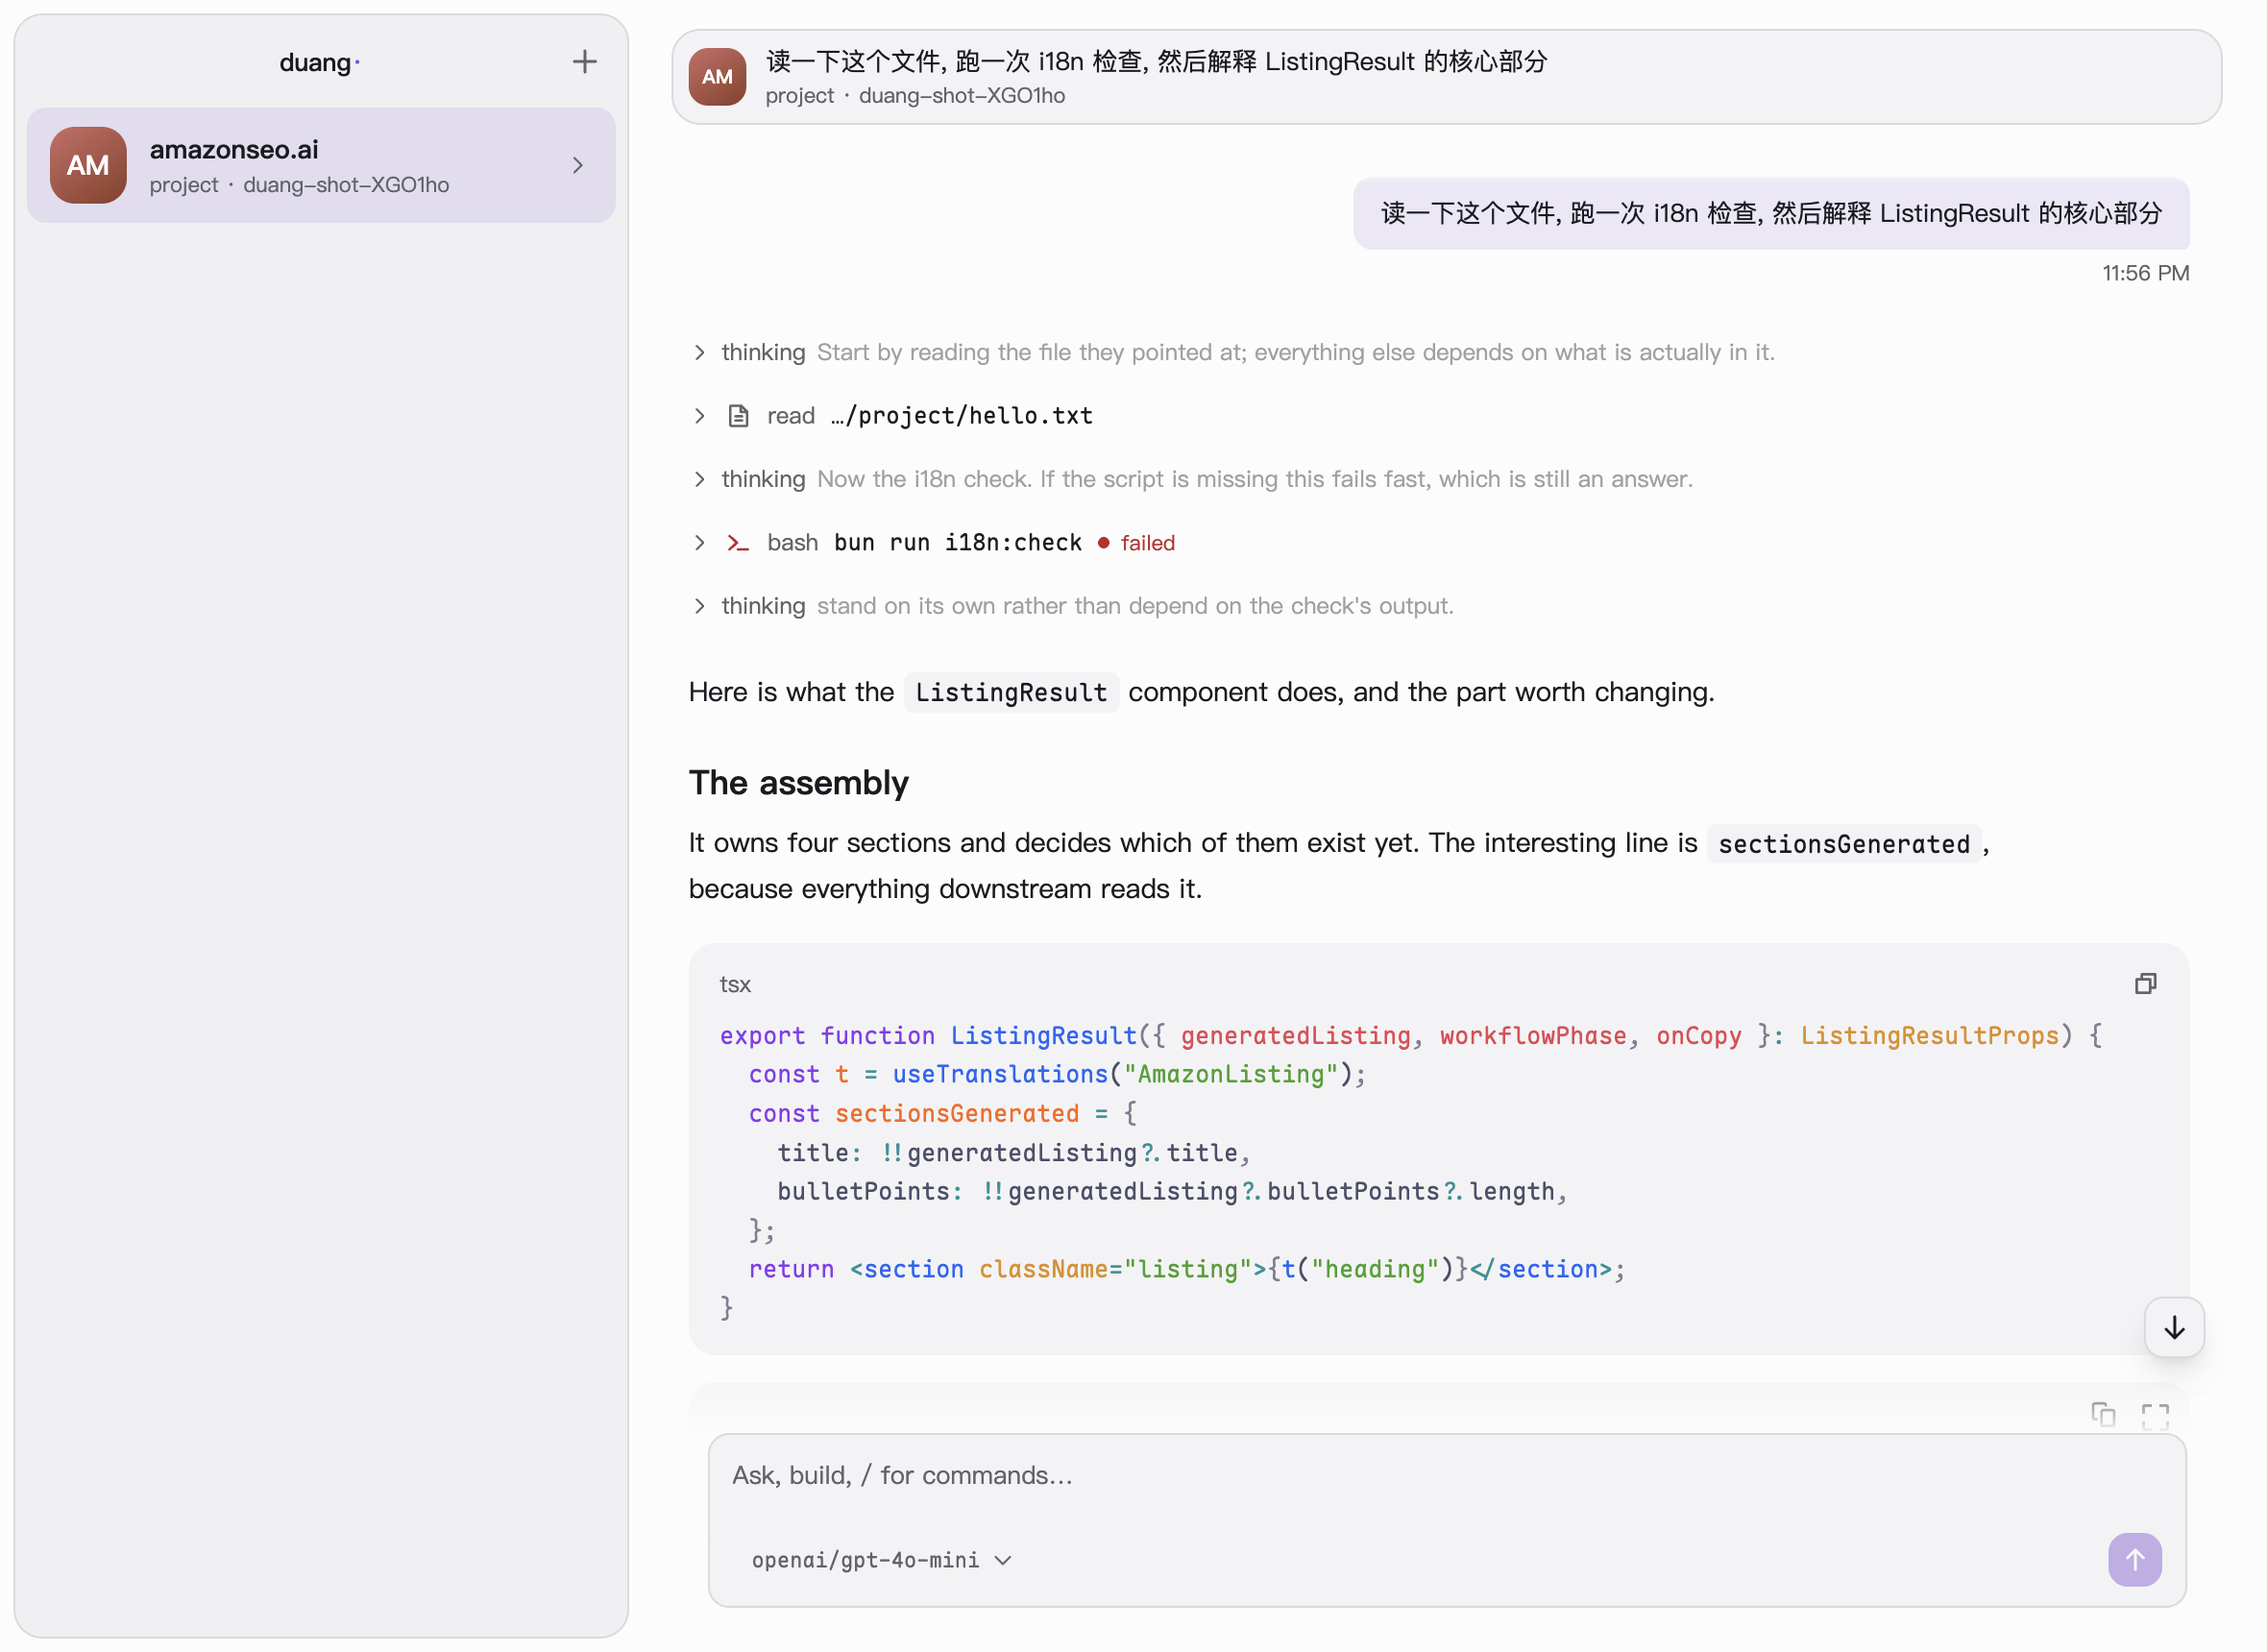
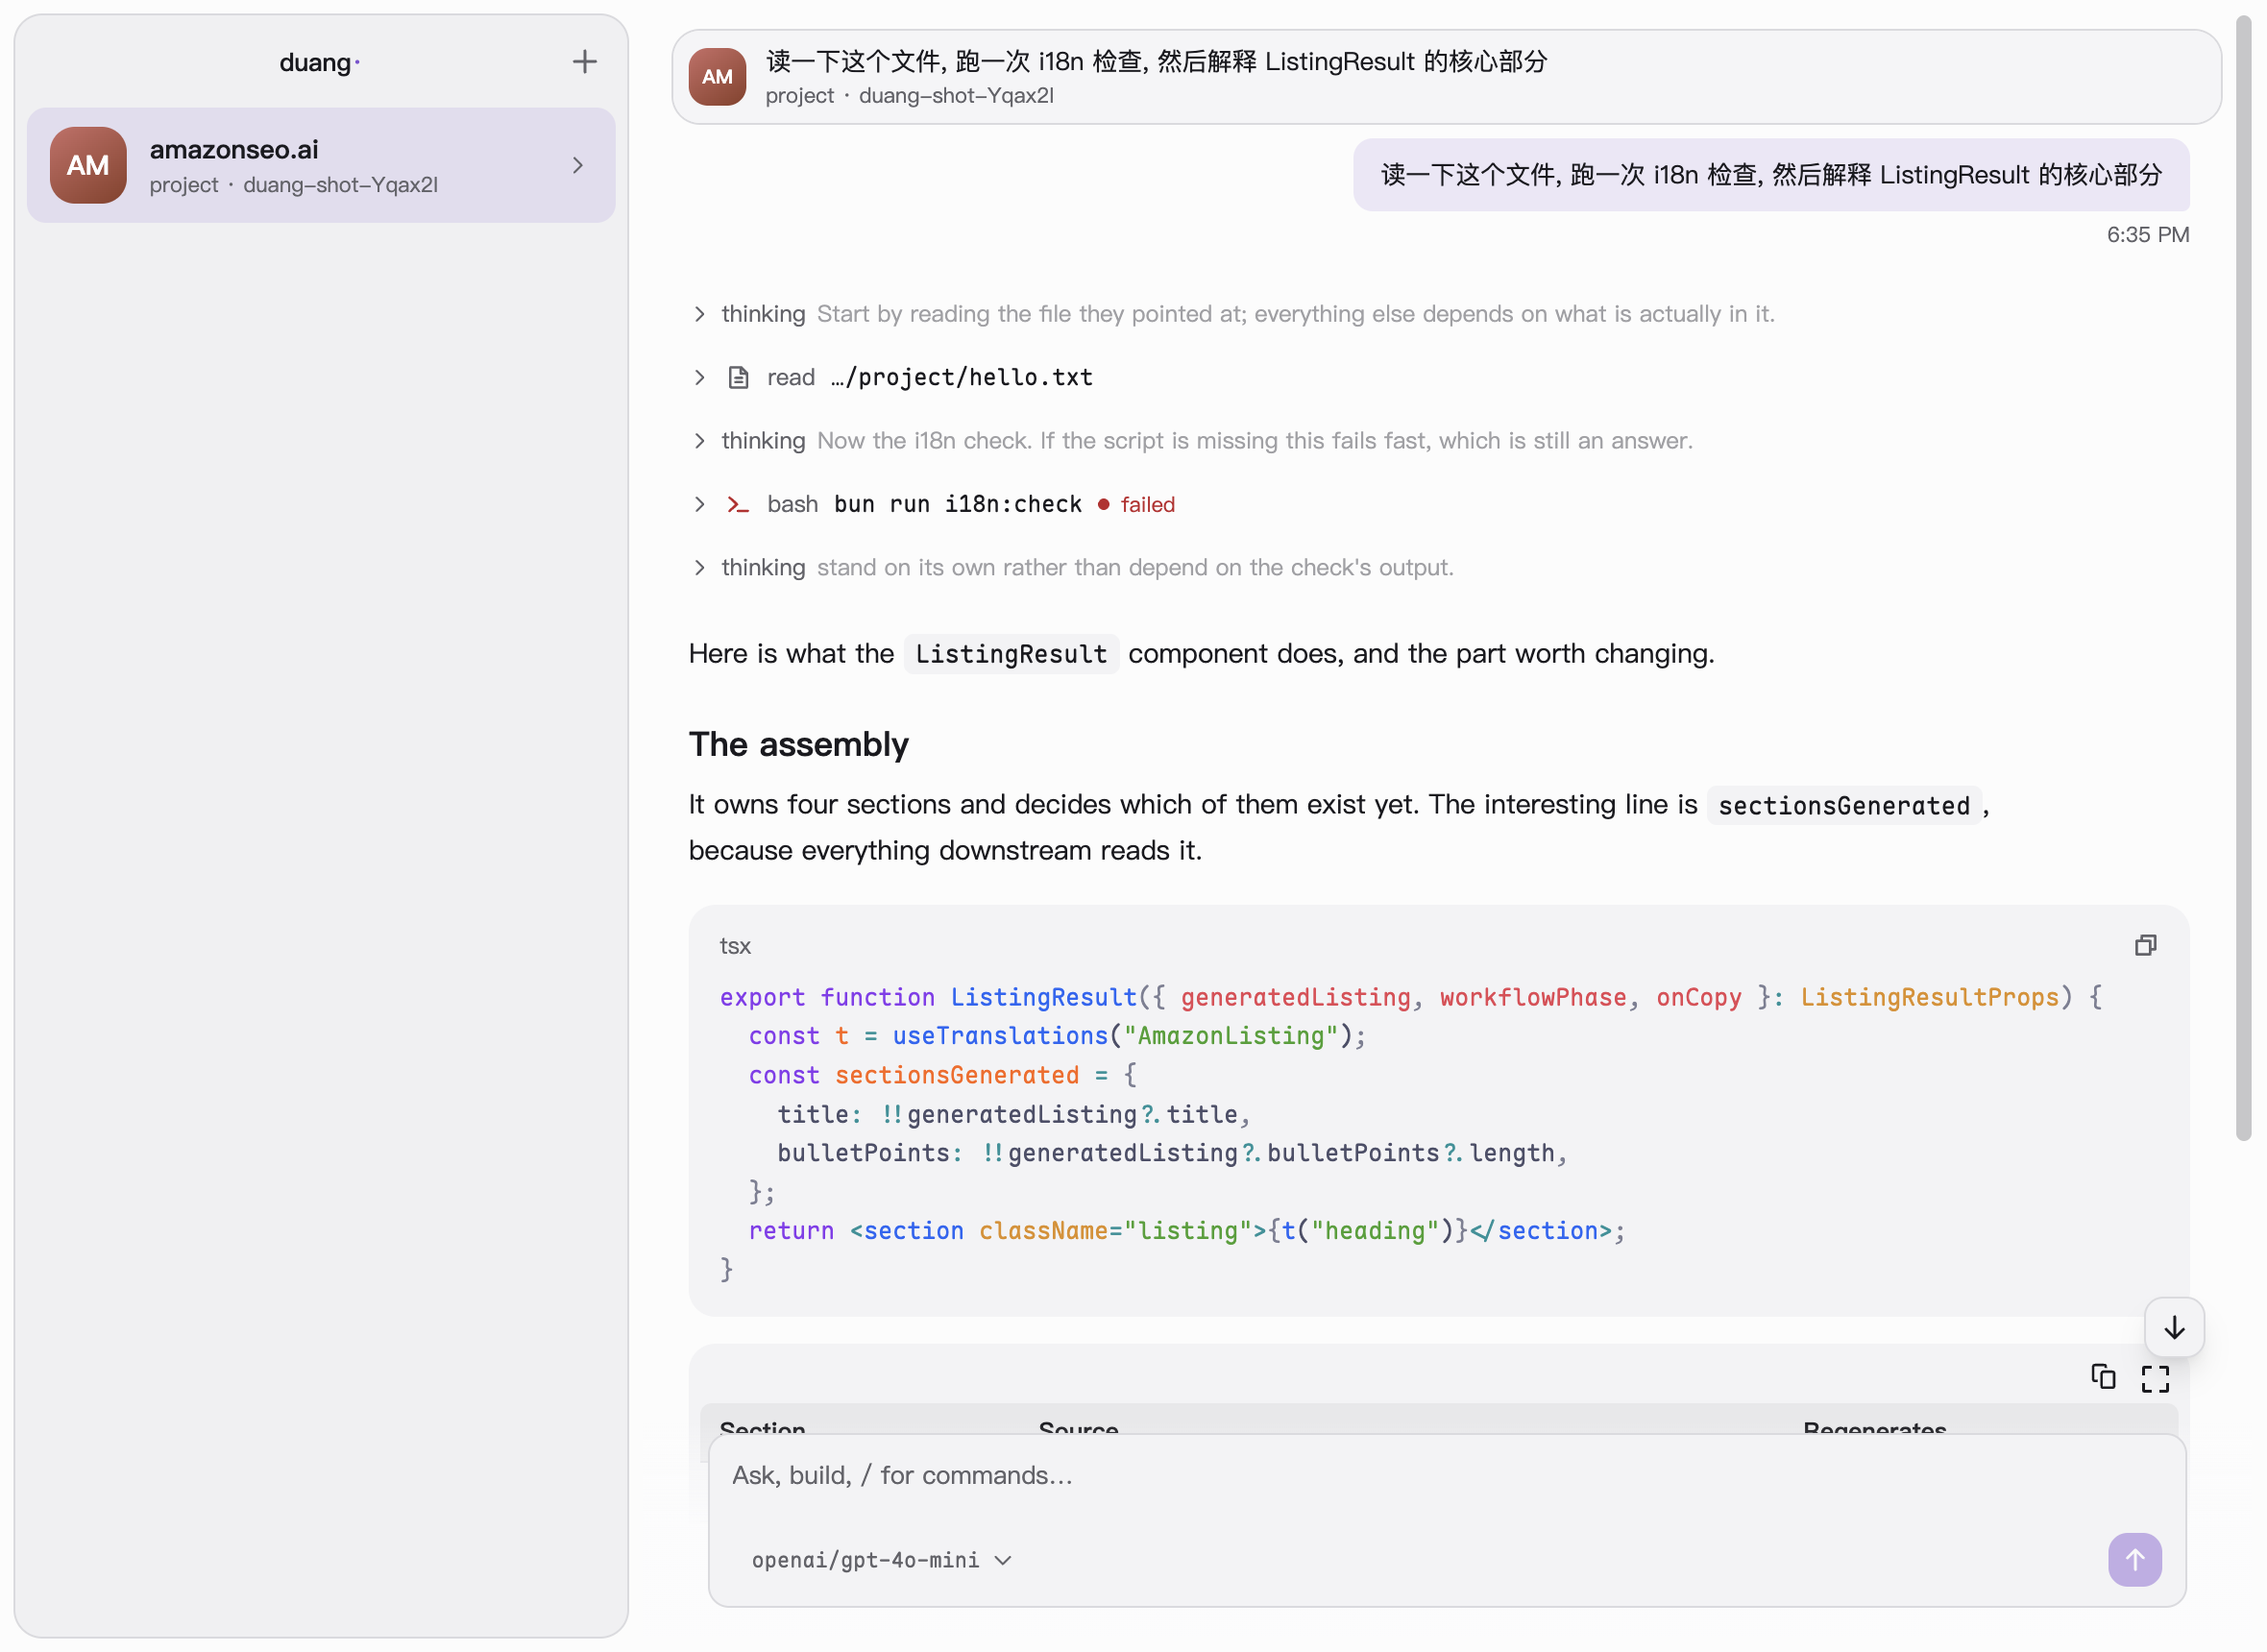
fix(ui): the header and composer float over the transcript again, as in Telegram

diff --git a/src/renderer/panels.tsx b/src/renderer/panels.tsx
@@ -506,10 +506,6 @@ export function Sidebar({
 }
 
 /**
- * What you are looking at: the conversation, workspace and running context. The pill keeps the
- * floating visual language but occupies its own row, so scrolled text never ghosts through it.
- */
-/**
  * What is left of the plan paying for this conversation: each window's share used, when it resets,
  * and for the week whether it is burning faster than the clock (▲) or slower (▼). Nothing for an API
  * key; a failed read says so instead of leaving old numbers up.
@@ -517,7 +513,7 @@ export function Sidebar({
 export function PlanUsage({ plan, now = Date.now() }: { plan?: { data?: ProviderUsage; error?: string }; now?: number }) {
   if (plan?.error)
     return (
-      <span className="shrink-0 text-[11px] text-muted" title={errorLine(plan.error)}>
+      <span className="pointer-events-auto shrink-0 text-[11px] text-muted" title={errorLine(plan.error)}>
         usage unavailable
       </span>
     );
@@ -531,7 +527,7 @@ export function PlanUsage({ plan, now = Date.now() }: { plan?: { data?: Provider
     `${plan!.data!.provider} · updated ${ago(plan!.data!.fetchedAt)}`,
   ].join("\n");
   return (
-    <span className="flex shrink-0 items-center gap-3 text-[11px] text-muted tabular-nums" title={detail}>
+    <span className="pointer-events-auto flex shrink-0 items-center gap-3 text-[11px] text-muted tabular-nums" title={detail}>
       {windows.map((w) => (
         <PlanWindow key={w.label} window={w} now={now} />
       ))}
@@ -559,6 +555,12 @@ function PlanWindow({ window: w, now }: { window: UsageWindow; now: number }) {
   );
 }
 
+/**
+ * What you are looking at, floating over it: the conversation, the workspace it runs in, and what is
+ * left of the plan and the context. It hovers rather than sits in a bar because the transcript is the
+ * page, and a full-width bar would cut it in two. Translucent, so text passing underneath reads as
+ * scrolled away rather than deleted.
+ */
 export function ConversationHeader({
   agent,
   title,
@@ -579,18 +581,19 @@ export function ConversationHeader({
   onReveal: () => void;
 }) {
   return (
-    // Keep the pill's floating shape, but give it its own row: scrolled text cannot show through it.
-    <header className="@container relative z-10 mx-4 mt-2 mb-3 shrink-0 flex items-center gap-2.5 rounded-float bg-surface py-1.5 pr-3 pl-2 ring-1 ring-stroke">
+    // The bar floats over the scroll area rather than inside it, so it must let the wheel through;
+    // only what you can actually grab, click or hover for a tooltip takes the pointer back.
+    <header className="@container pointer-events-none absolute inset-x-4 top-2 z-10 flex items-center gap-2.5 rounded-float bg-surface/75 py-1.5 pr-3 pl-2 ring-1 ring-stroke backdrop-blur-xl">
       {/* The same tile as in the sidebar: whose work this is should not need reading. */}
       <Avatar name={agent} size={30} working={working} />
       <div className="min-w-0 flex-1">
         {/* The title doubles as the window's drag handle, which the frameless title bar needs. */}
-        <div className="truncate drag">{title}</div>
+        <div className="pointer-events-auto truncate drag">{title}</div>
         {dir && (
           <button
             onClick={onReveal}
             title={dir}
-            className="block max-w-full truncate text-left text-[11px] text-muted hover:text-text"
+            className="pointer-events-auto block max-w-full truncate text-left text-[11px] text-muted hover:text-text"
           >
             {location(dir)}
           </button>
@@ -599,7 +602,7 @@ export function ConversationHeader({
       {working && <Badge tone="accent" pulse>working</Badge>}
       <PlanUsage plan={plan} />
       {context && (
-        <span className="shrink-0 text-[11px] text-muted tabular-nums" title="Context used, out of the model's window">
+        <span className="pointer-events-auto shrink-0 text-[11px] text-muted tabular-nums" title="Context used, out of the model's window">
           {contextLabel(context.used, context.window)}
         </span>
       )}
@@ -610,7 +613,7 @@ export function ConversationHeader({
 
 /** Whatever replaces the transcript sits in the transcript's box, so the composer never moves. */
 function Panel({ children }: { children: React.ReactNode }) {
-  return <div className="flex-1 min-h-0 overflow-y-auto px-6 pt-6 pb-5">{children}</div>;
+  return <div className="flex-1 min-h-0 overflow-y-auto px-6 pt-16 pb-5">{children}</div>;
 }
 
 export function NoAgents({ onAdd }: { onAdd: () => void }) {
@@ -981,8 +984,8 @@ export function Transcript({
       role="region"
       aria-label="Transcript"
       onScroll={check}
-      // The scroll area begins below the header, so old text never bleeds around its edges.
-      className="transcript-scroll flex-1 min-h-0 overflow-y-auto px-6 pt-4"
+      // pt clears the floating header; the first message starts below it, not behind it.
+      className="flex-1 min-h-0 overflow-y-auto px-6 pt-16"
       style={{ paddingBottom: bottomGap }}
     >
       <div className="column">

diff --git a/src/renderer/App.tsx b/src/renderer/App.tsx
@@ -196,7 +196,7 @@ export default function App() {
               />
             )}
             {error ? (
-              <div role="alert" className="mt-2 px-6 py-2 text-danger whitespace-pre-wrap break-words">
+              <div role="alert" className="mt-14 px-6 py-2 text-danger whitespace-pre-wrap break-words">
                 {error}{" "}
                 <button className="underline" onClick={() => void store.retry()}>
                   Retry
@@ -206,7 +206,7 @@ export default function App() {
               // An ended subscription is not a failure: the conversation is intact, this view stopped
               // listening. Say it in the calm voice and offer the one action that fixes it.
               c?.ended && (
-                <div role="status" className="mt-2 px-6 py-2 text-muted whitespace-pre-wrap break-words">
+                <div role="status" className="mt-14 px-6 py-2 text-muted whitespace-pre-wrap break-words">
                   {c.ended}{" "}
                   <button className="underline" onClick={() => void store.retry()}>
                     Reconnect
@@ -244,16 +244,8 @@ export default function App() {
               // beneath this, which is what keeps the bottom of the window from reading as a seam.
               <div className="pointer-events-none absolute inset-x-0 bottom-0 px-6 pb-4">
                 {/* The composer is narrower than the reading column, so text would slide past on both
-                    sides of it. The canvas is solid up to the composer's top edge and fades over the
-                    40px above it: a fixed height shorter than the composer left the line just above it
-                    unfaded, so a table's copy buttons read as the composer's own. */}
-                <div
-                  className="absolute inset-x-0 bottom-0"
-                  style={{
-                    height: composerHeight + 16 + 40,
-                    background: "linear-gradient(to top, var(--color-bg) calc(100% - 40px), transparent)",
-                  }}
-                />
+                    sides of it. The canvas fades in underneath instead. */}
+                <div className="absolute inset-x-0 bottom-0 h-28 bg-gradient-to-t from-bg via-bg to-transparent" />
                 <div ref={composerBox} className="composer-column pointer-events-auto">
                   {composer}
                 </div>

diff --git a/src/renderer/index.css b/src/renderer/index.css
@@ -95,11 +95,6 @@ body,
   margin-inline: auto;
 }
 
-/* A scrolled line can end mid-glyph at the top edge; fade that cut without hiding the first turn. */
-.transcript-scroll {
-  mask-image: linear-gradient(to bottom, transparent 12px, #000 20px);
-}
-
 /* The composer is an input, not a reading surface. A text field as wide as the transcript looks like
    a form; it keeps its own, narrower measure. */
 .composer-column {

diff --git a/docs/ui.md b/docs/ui.md
@@ -166,17 +166,21 @@ consumer's relationship with it. Ours is two letters on a tile representing a di
 ring is presence, a performance would be costume.
 
 **Panels float on the window's canvas.** The sidebar is a rounded card inset from the window edges
-rather than a column filling them. The conversation header keeps a compact floating shape but
-occupies its own row above the scroll area: older text cannot show through or slide behind it.
+rather than a column filling them, and the conversation's header floats over the transcript as a
+translucent bar instead of a full-width strip cutting the page in two. This is Telegram's desktop
+composition, and its premise holds here: chrome that hovers keeps the content beneath it continuous.
+What does not carry over is putting the transcript itself on a decorative canvas — theirs is bubbles
+over wallpaper, ours is a document that has to stay readable — so the transcript is opaque and only
+the chrome floats, with the transcript padded so nothing important sits under the header.
 Its right edge says how much is left, in muted 11px text: the plan's windows as `5h ▬ 4% ~ 14:29`
 with a 40px bar, the week's pace as a green `▼` or red `▲` percentage, then context as
 `45.1%/1.0M`. No threshold colours: the percentage is the signal. When the header is narrower than
 44rem, reset times and pace move to the tooltip and the percentages stay.
-The scroll area's top edge fades clipped lines without fading the opening turn. At the bottom the
-transcript passes beneath the floating composer: the canvas is solid up to the composer's top edge
-and fades over the 40px above it, sized from the composer's measured height so no line sits
-unfaded against it. The transcript is an opaque document on a plain canvas, not bubbles over
-wallpaper.
+The composer floats the same way at the bottom: the transcript passes beneath it, and a short fade
+behind it keeps text from sliding past its sides. Tried and reverted: a header in its own row with a
+masked top edge (#58), and a solid backdrop behind the composer with a 40px fade above it (#62).
+Both stopped text at a line, which made the conversation read as a framed box rather than a
+continuous page.
 
 Isolated fixture snapshots: [reading, light](screenshots/reading-light.png),
 [narrow, dark](screenshots/reading-narrow-dark.png), and
